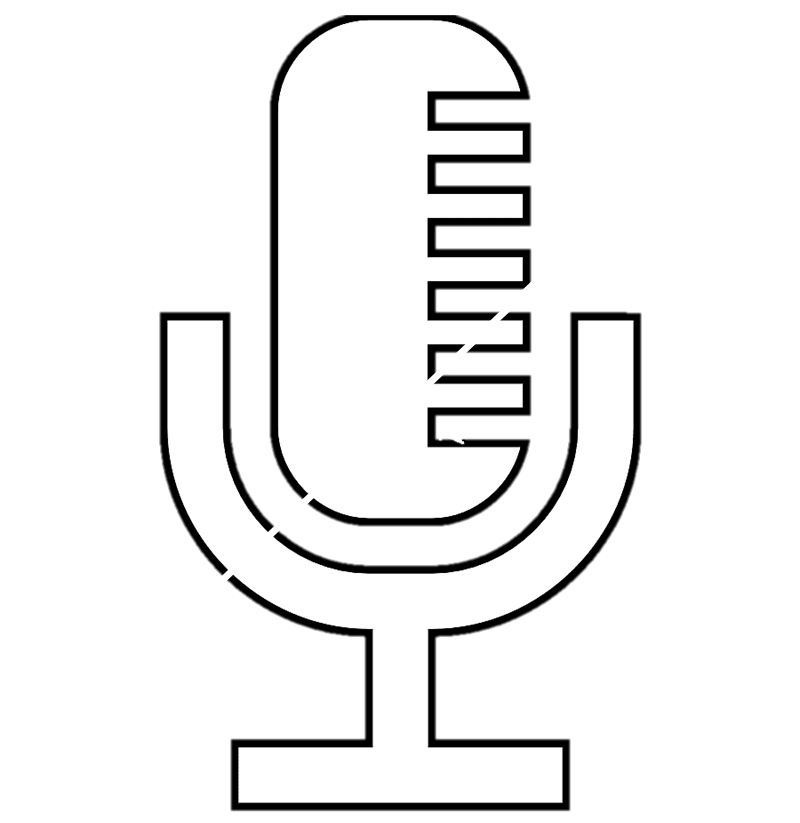
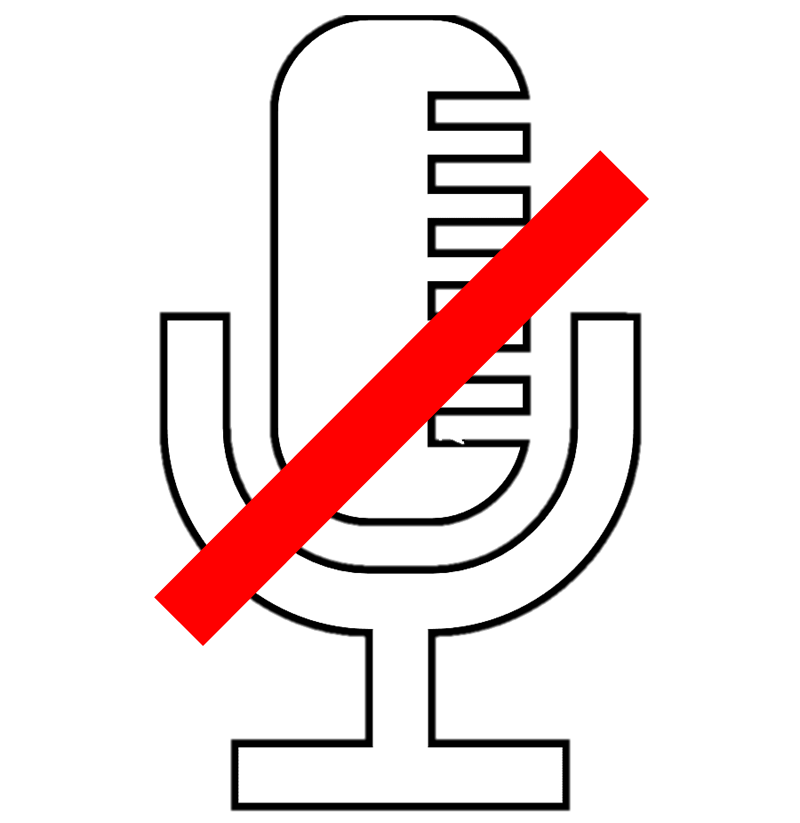
Quiz zoom final Inestable

Changed region(s): [[0.1875, 0.1823, 0.8125, 0.7898]]

diff --git a/Milo/html/quizHerramientasBasicasZoom.html b/Milo/html/quizHerramientasBasicasZoom.html
@@ -21,7 +21,7 @@
 		<!-- nouislider -->
 		<link type="text/css" rel="stylesheet" href="../css/nouislider.min.css"/>
         <link href="../css/zoom.css" rel="stylesheet">
-		<script type="text/javascript" src="../js/quizZoom.js"></script>
+		<script type="text/javascript" src="../js/herramientasBasicasZoom.js"></script>
 		<script src="https://ajax.googleapis.com/ajax/libs/jquery/3.6.0/jquery.min.js"></script>
 
 		<!-- Font Awesome Icon -->
@@ -164,93 +164,49 @@
 	
 	
 	<!--Quiz Crear nueva reunión-->
-	<div id="contenidoZoom">
-        <div class="encabezado">
-            <div>
-                <p>Reunión y Chat</p>
-            </div>
+	<div id="llamadaEnCurso">
+        <div class="cabezeraLlamadaEnCurso">
+            <table style="width: 100%;">
+                <tr>
+                    <td><img src="../img/speakerActivo.png" alt="speakerActivo" class="imgLlamadaEnCurso" id="speaker" onclick="desactivarAudio()"></td>
+                    <td><p class="textoLlamadaEnCurso" style="cursor: context-menu;">Zoom</p></td>
+                    <td><button id="finalizarLlamada">Finalizar</button></td>
+                </tr>
+            </table>
         </div>
 
 
-        <div class="botonesContenido">
-            <div>
-                <button class="boton" id="reunion" value = "Click me" onclick = "respCorrectaNuevaReunion()">
-                        <img src="../img/zoomChafa.png" alt="Nva Reu" class="imgBoton">
-                        <p class="txtBoton">Nueva reunión</p>
-                </button>
-                <button class="boton" value = "Click me" onclick = "respIncorrecta()">
-                        <img src="../img/unirseChafa.png" alt="Nva Reu" class="imgBoton">
-                        <p class="txtBoton">Unirse</p>
-                </button>
-            </div>
-            <div>
-                <button type="button" class="boton" value = "Click me" onclick = "respIncorrecta()">
-                        <img src="../img/programarChafa.png" alt="Nva Reu" class="imgBoton">
-                        <p class="txtBoton">Programar</p>
-                </button>
-                <button class="boton" value = "Click me" onclick = "respIncorrecta()">
-                        <img src="../img/compartirPantallaChafa.png" alt="Nva Reu" class="imgBoton">
-                        <p class="txtBoton">Compartir</p>
-                </button>
-            </div>
-		</div>
+        <div class="contenidoLlamada">
+            <h2 id="warning">Tu video y tu audio NO se activarán realmente</h2>
+        </div>
 
 
-        <div class="menu">
-		
-            <table>
+        <div class="botonesLlamada">
+            <table style="cursor: pointer;">
                 <tr>
-                    <td class="botonesMenu" ><p>Reunión y Chat</p></td>
-                    <td class="botonesMenu"><p>Reuniones</p></td>
-                    <td class="botonesMenu"><p>Contactos</p></td>
-                    <td class="botonesMenu"><p>Más</p></td>
+                    <td onclick="activarMicrofono()" id="microfono"><img src="../img/microfonoInactivo.png" alt="microfonoActivo" class="imagenMenuLlamada" id="imgAudio"></td>
+
+                    <td onclick="activarVideo()" id="video"><img src="../img/videoInactivo.png" alt="videoActivo" class="imagenMenuLlamada" id="imgVideo"></td>
+
+                    <td onclick="compartirPantalla()" id="compartirPantalla"><img src="../img/compartitPantalla.png" alt="compartirPantalla" class="imagenMenuLlamada" id="imgCompartir"></td>
+                    
+                    <td onclick="activarMicrofono()" id="microfono"><img src="../img/personasEnReunion.png" alt="personasEnReunion" class="imagenMenuLlamada" id="imgParticipantes"></td>
+                    
+                    <td onclick="activarMicrofono()" id="microfono"><img src="../img/iconoMas.png" alt="iconoMas" class="imagenMenuLlamada" id="imgMas"></td>
+                </tr>
+                <tr>
+                    <td class="textoMenuLlamada" id="activarAudio" onclick="activarMicrofono()">Activar audio</td>
+                    <td class="textoMenuLlamada" id="activarVideo" onclick="activarVideo()">Iniciar video</td>
+                    <td class="textoMenuLlamada" id="compartir">Compartir</td>
+                    <td class="textoMenuLlamada" id="participantes">Participantes</td>
+                    <td class="textoMenuLlamada" id="mas">Más</td>
                 </tr>
             </table>
         </div>
     </div>
 <!--Fin quiz zoom-->
 
-	<center> <h1 id="preguntaCompPantalla">¿El ícono correcto para compartir pantalla es de color verde?</h1> </center>
-	   <br>
-	   <BR><h3 id="textoVoF"><center>Seleccione verdadero o falso</center></h3></BR>
-	
 
-
-
-
-
-
-
-
-
-
-	<!--Inicio quiz compartir pantalla-->
-	<div id="compartirPantalla">
-		<div>
-			<button class="verdaderoFalso" id="verdadero" onclick="quizCompPantallaCompletado()"><p>Verdadero</p></button>
-		</div>
-		<div>
-			<button class="verdaderoFalso" id="falso" onclick="respIncorrecta()"><p>Falso</p></button>
-		</div>
-		<div class="contenidoZoom2">
-			<div id="telefono">
-				<div class="encabezado">
-					<div>
-						<p>Zoom</p>
-					</div>
-				</div>
-				<BR></BR><br><br>
-				<center><img src="../img/logo2ch.png"  alt=""> </center>
-					<br><br><br><br><br><br><br>
-				<center><img src="../img/quiz_share.png"  alt=""> </center>
-			</div>
-		</div>
-	</div>
-	<!--Fin quiz compartir pantalla-->
-
-
-
-		<br><br>
 
 		<!-- FOOTER -->
 		<footer id="footer">

diff --git a/Milo/mockups/zoomMock.html b/Milo/mockups/zoomMock.html
@@ -8,7 +8,7 @@
 <meta name="description" content="">
 <meta name="keywords" content="">
 <link href="../css/zoom.css" rel="stylesheet">
-<script type="text/javascript" src="../js/quizZoom.js"></script>
+<script type="text/javascript" src="../js/herramientasBasicasZoom.js"></script>
 <script src="https://ajax.googleapis.com/ajax/libs/jquery/3.6.0/jquery.min.js"></script>
 </head>
 <body>
@@ -128,7 +128,7 @@
         <div class="cabezeraLlamadaEnCurso">
             <table style="width: 100%;">
                 <tr>
-                    <td><img src="../img/speakerActivo.png" alt="speakerActivo" class="imgLlamadaEnCurso" id="speaker"></td>
+                    <td><img src="../img/speakerActivo.png" alt="speakerActivo" class="imgLlamadaEnCurso" id="speaker" onclick="desactivarAudio()"></td>
                     <td><p class="textoLlamadaEnCurso" style="cursor: context-menu;">Zoom</p></td>
                     <td><button id="finalizarLlamada">Finalizar</button></td>
                 </tr>
@@ -137,24 +137,29 @@
 
 
         <div class="contenidoLlamada">
+            <h2 id="warning">Tu video y tu audio NO se activarán realmente</h2>
         </div>
 
 
         <div class="botonesLlamada">
             <table style="cursor: pointer;">
                 <tr>
-                    <td><img src="../img/microfonoActivo.png" alt="microfonoActivo" class="imagenMenuLlamada"></td>
-                    <td><img src="../img/videoActivo.png" alt="videoActivo" class="imagenMenuLlamada"></td>
-                    <td><img src="../img/compartitPantalla.png" alt="compartirPantalla" class="imagenMenuLlamada"></td>
-                    <td><img src="../img/personasEnReunion.png" alt="personasEnReunion" class="imagenMenuLlamada"></td>
-                    <td><img src="../img/iconoMas.png" alt="iconoMas" class="imagenMenuLlamada"></td>
+                    <td onclick="activarMicrofono()" id="microfono"><img src="../img/microfonoInactivo.png" alt="microfonoActivo" class="imagenMenuLlamada" id="imgAudio"></td>
+
+                    <td onclick="activarVideo()" id="video"><img src="../img/videoInactivo.png" alt="videoActivo" class="imagenMenuLlamada" id="imgVideo"></td>
+
+                    <td onclick="compartirPantalla()" id="compartirPantalla"><img src="../img/compartitPantalla.png" alt="compartirPantalla" class="imagenMenuLlamada" id="imgCompartir"></td>
+                    
+                    <td onclick="activarMicrofono()" id="microfono"><img src="../img/personasEnReunion.png" alt="personasEnReunion" class="imagenMenuLlamada" id="imgParticipantes"></td>
+                    
+                    <td onclick="activarMicrofono()" id="microfono"><img src="../img/iconoMas.png" alt="iconoMas" class="imagenMenuLlamada" id="imgMas"></td>
                 </tr>
-                <tr class="textoMenuLlamada">
-                    <td id="textoMenuLlamada">Reactivar audio</td>
-                    <td id="textoMenuLlamada">Iniciar video</td>
-                    <td id="textoMenuLlamada">Compartir</td>
-                    <td id="textoMenuLlamada">Participantes</td>
-                    <td id="textoMenuLlamada">Más</td>
+                <tr>
+                    <td class="textoMenuLlamada" id="activarAudio" onclick="activarMicrofono()">Activar audio</td>
+                    <td class="textoMenuLlamada" id="activarVideo" onclick="activarVideo()">Iniciar video</td>
+                    <td class="textoMenuLlamada" id="compartir">Compartir</td>
+                    <td class="textoMenuLlamada" id="participantes">Participantes</td>
+                    <td class="textoMenuLlamada" id="mas">Más</td>
                 </tr>
             </table>
         </div>

diff --git a/Milo/js/herramientasBasicasZoom.js b/Milo/js/herramientasBasicasZoom.js
@@ -1,0 +1,34 @@
+function desactivarAudio(){
+    document.getElementById("speaker").src = "../img/speakerInactivo.png";
+    document.getElementById("speaker").setAttribute('onclick', 'activarAudio()');
+}
+function activarAudio(){
+    document.getElementById("speaker").src = "../img/speakerActivo.png";
+    document.getElementById("speaker").setAttribute('onclick', 'desactivarAudio()');
+}
+
+function activarMicrofono(){
+    document.getElementById("activarAudio").innerHTML = "Activar micrófono";
+    document.getElementById("imgAudio").src = "../img/microfonoActivo.png";
+    document.getElementById("microfono").setAttribute('onclick', 'desactivarMicrofono()');
+    document.getElementById("activarAudio").setAttribute('onclick', 'desactivarMicrofono()');
+}
+function desactivarMicrofono(){
+    document.getElementById("activarAudio").innerHTML = "Reactivar micrófono";
+    document.getElementById("imgAudio").src = "../img/microfonoInactivo.png";
+    document.getElementById("microfono").setAttribute('onclick', 'activarMicrofono()');
+    document.getElementById("activarAudio").setAttribute('onclick', 'activarMicrofono()');
+}
+
+function desactivarVideo(){
+    document.getElementById("activarVideo").innerHTML = "Activar video";
+    document.getElementById("imgVideo").src = "../img/videoInactivo.png";
+    document.getElementById("video").setAttribute('onclick', 'activarVideo()');
+    document.getElementById("activarVideo").setAttribute('onclick', 'activarVideo()');
+}
+function activarVideo(){
+    document.getElementById("activarVideo").innerHTML = "Desactivar video";
+    document.getElementById("imgVideo").src = "../img/videoActivo.png";
+    document.getElementById("video").setAttribute('onclick', 'desactivarVideo()');
+    document.getElementById("activarVideo").setAttribute('onclick', 'desactivarVideo()');
+}

diff --git a/Milo/css/zoom.css b/Milo/css/zoom.css
@@ -305,7 +305,7 @@ input:checked + .slider:before {
     cursor: pointer;
 }
 .contenidoLlamada{
-    height: 34rem;
+    height: 32rem;
     background-image: url(../img/logo2ch.png);
     background-repeat: no-repeat;
     background-position: center;
@@ -316,12 +316,15 @@ input:checked + .slider:before {
 }
 .textoMenuLlamada{
     color: white;
-}
-#textoMenuLlamada{
     padding-left: 3px;
     padding-right: 3px;
 }
 .imagenMenuLlamada{
     width: 30px;
-    padding-top: 5px;
+    padding-top: 10px;
+}
+#warning{
+    color: white;
+    text-align: center;
+    padding-top: 10%;
 }
